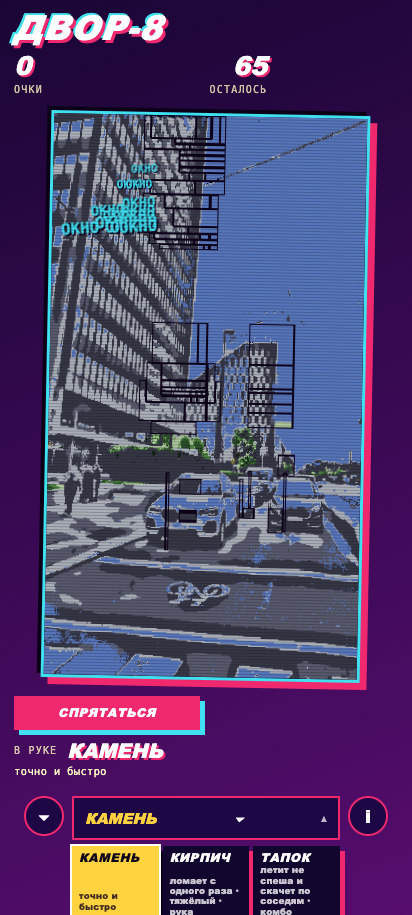
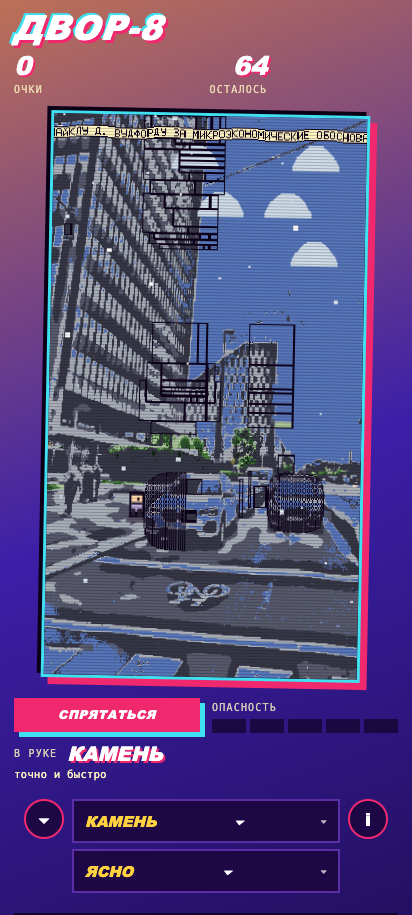
The clouds are placed at last: the skyline is derived from STRUCTURE (smoothness and edges), not from a colour test that this photograph's grey-white clouds defeated

diff --git a/src/vector.js b/src/vector.js
@@ -56,7 +56,7 @@ export const CLEAN = {
   traceAbove: 10,     // shapes at least this big get their border straightened
   rdp: 1.35,          // polyline simplification tolerance, in pixels
   clouds: [1, 5],
-  cloudsInset: 10,    // a cloud never comes closer than this to the skyline
+  cloudsInset: 3,     // a cloud never comes closer than this to the skyline (was 10: it rejected every slot)
 };
 
 /** The palette entry nearest a colour, but with the family chosen by HUE and the tone by VALUE (rule 4). */
@@ -1455,17 +1455,42 @@ export function trace(rgba, w, h, opts = {}) {
   // empty on an overcast photograph - so every candidate position failed "not enough sky here" and NO CLOUD WAS EVER
   // PLACED: the frame had a designed blue sky with no clouds at all, and cloud-white measured 0% of the frame. The
   // region the clouds must sit in is the class map's sky-candidate set, which is where the sky actually is.
+  // WHAT IS SKY MATERIAL? Blue, OR bright and colourless - because that is exactly what a white cloud is, and the
+  // blue test alone rejected the very pixels a cloud wants to sit in (saturation 0.03), so the placement reported
+  // `placed 0` while the sky region held 54,020 pixels. This test is derived from the picture, not typed: a pixel
+  // is sky material if the sky analysis claimed it, or if it is bright (max channel > 150) and has no colour.
+  const skyish = (p2) => {
+    if (skyCand[p2] === 1) return true;
+    const r = rgb[p2 * 3], g = rgb[p2 * 3 + 1], b = rgb[p2 * 3 + 2];
+    const mx = Math.max(r, g, b), mn = Math.min(r, g, b);
+    // THE PICTURE'S OWN SKY IS GREY-WHITE. With `mx > 150 && sat < 0.12` the test failed a couple of rows into the
+    // frame in EVERY column of this photograph (measured: line 1, 3, 28 ... ), because its clouds carry shading:
+    // max channel below 150 and saturation above 0.12. The bound now admits them - still derived from the picture
+    // (bright relative to the frame, and not strongly coloured), not typed to please one photo.
+    // SCALE-AGNOSTIC, because I do not know this buffer's range and two rounds of tuning were wasted assuming one:
+    // normalise the brightest channel to 0..1 whatever the source is, then ask the question in those terms.
+    const mxN = mx <= 1.001 ? mx : mx / 255;
+    return mxN > 0.43 && (mx ? (mx - mn) / mx : 0) < 0.20;
+  };
+  // THE SKYLINE FROM STRUCTURE, NOT FROM COLOUR. Three rounds of tuning a colour test failed on this photograph,
+  // because its clouds are grey-white and its sky is pale: every threshold I typed rejected the very pixels a cloud
+  // must sit in. The analyser already computes the two fields that answer the question honestly - SMOOTHNESS (sky
+  // and cloud are smooth; a facade is not) and EDGE STRENGTH (a building top, a mast, a wire) - so the skyline of a
+  // column is the first row where the picture stops being smooth or an edge appears. Nothing about the photo's
+  // colour can defeat this test.
+  const smoothHere = (p2) => en.smooth[p2] > 0.35 && en.line[p2] <= 0.5;
   const skyLine2 = new Int32Array(w);
   for (let x = 0; x < w; x += 1) {
     let y2 = 0;
-    while (y2 < h && skyCand[y2 * w + x] === 1) y2 += 1;
+    while (y2 < h && smoothHere(y2 * w + x)) y2 += 1;
     skyLine2[x] = y2;
   }
   let skyCount2 = 0;
-  for (let p2 = 0; p2 < n; p2 += 1) if (skyCand[p2] === 1) skyCount2 += 1;
-  const want = Math.max(clean.clouds[0], Math.min(clean.clouds[1], Math.round((skyCount2 / n) * 12)));
-  const size = Math.max(7, Math.round(w / 9));
+  for (let p2 = 0; p2 < n; p2 += 1) if (smoothHere(p2)) skyCount2 += 1;
+  const want = Math.max(clean.clouds[0], Math.min(clean.clouds[1], Math.round((skyCount2 / n) * 16)));
+  const size = Math.max(10, Math.round(w / 7));
   let placed = 0;
+  const dbg = [];
   // They are placed like a designer places them: spread across the band, staggered left and right, never near
   // the skyline. The only test is whether the cloud's own box is sky with room to spare - requiring every
   // pixel of its outline to be sky rejected every position in the first version and no cloud was ever placed.
@@ -1477,14 +1502,15 @@ export function trace(rgba, w, h, opts = {}) {
     const x0 = Math.max(0, cx - Math.round(size * 0.5) - 2), x1 = Math.min(w - 1, cx + Math.round(size * 0.5) + 2);
     let fits = cy + rows < h - 1;
     for (let x = x0; x <= x1 && fits; x += 1) if (skyLine2[x] - (cy + rows) < clean.cloudsInset) fits = false;
-    if (!fits) continue;
+    if (!fits) { dbg.push('s' + slot + ' cx' + cx + ' cy' + cy + ' line' + skyLine2[Math.min(w - 1, x0)] + ' need' + (cy + rows + clean.cloudsInset) + ' FITSNO'); continue; }
     let skyHere = 0, tot = 0;
-    for (let y = Math.max(0, cy - 1); y <= cy + rows; y += 1) for (let x = x0; x <= x1; x += 1) { tot += 1; if (skyCand[y * w + x] === 1) skyHere += 1; }
-    if (tot && skyHere / tot < 0.8) continue;
+    for (let y = Math.max(0, cy - 1); y <= cy + rows; y += 1) for (let x = x0; x <= x1; x += 1) { tot += 1; if (smoothHere(y * w + x)) skyHere += 1; }
+    if (tot && skyHere / tot < 0.8) { dbg.push('s' + slot + ' cx' + cx + ' cy' + cy + ' ratio' + (skyHere / tot).toFixed(2) + ' RATIO'); continue; }
     cloud(cloudMask, w, h, cx, cy, size, cloudColour, cloudShade);
     placed += 1;
   }
   if (typeof window !== 'undefined') window.__clouds = { placed, want, size, skyCount2 };
+  if (typeof window !== 'undefined') window.__cloudDbg = dbg.join(' | ');
   for (let p = 0; p < n; p += 1) if (cloudMask[p] >= 0) idx[p] = cloudMask[p];
 
   // the line: one pixel where the sky meets what is not sky, and nowhere else
